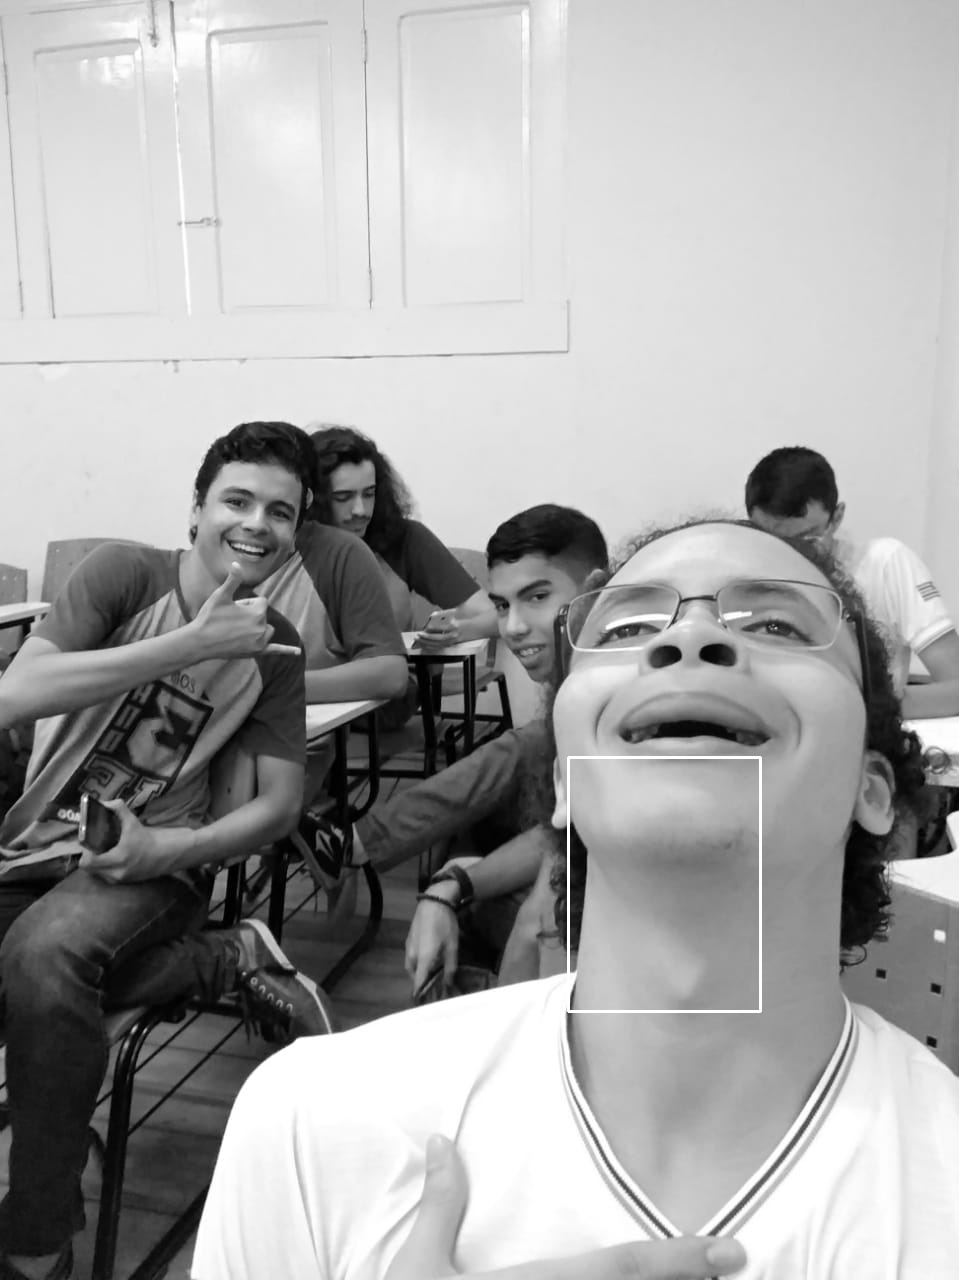
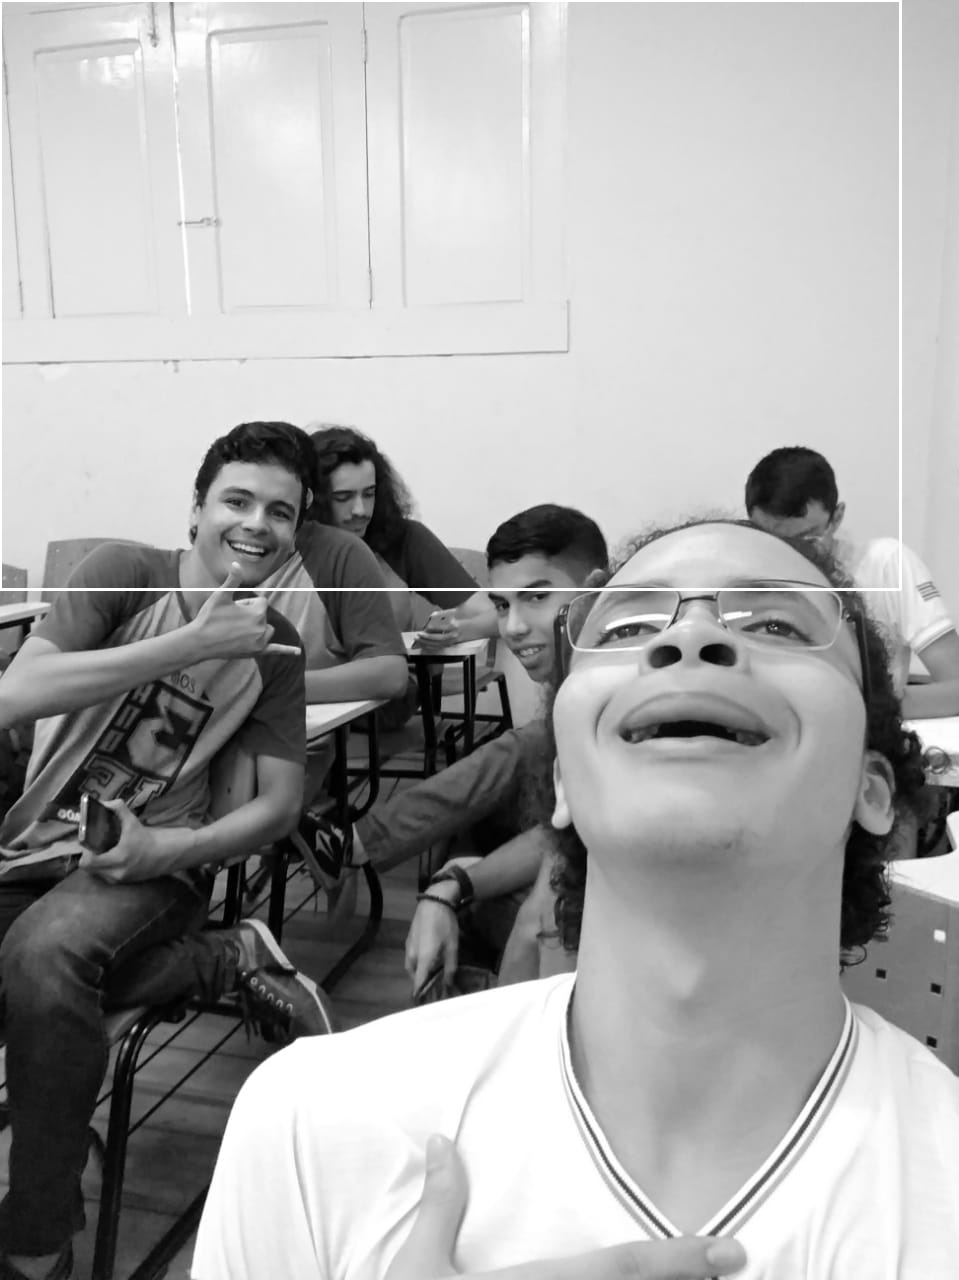
Template Matching + Cascade integrade

diff --git a/template_matching.py b/template_matching.py
@@ -1,30 +1,123 @@
 import cv2
 import numpy as np
+import requests
+import imutils
+import cascade_boosting
+
+url = "http://10.0.50.5:8080/shot.jpg"
 
 
-def face_detection_with_Cam():
-    cap = cv2.VideoCapture(0)
-    template = cv2.imread("template3.png", cv2.IMREAD_GRAYSCALE)
-    w, h = template.shape[::-1]
-    threshold = 0.8  
 
-    while True:
-        ret, frame = cap.read()
-        gray_frame = cv2.cvtColor(frame, cv2.COLOR_BGR2GRAY)
-
-        result = cv2.matchTemplate(gray_frame, template, cv2.TM_CCOEFF_NORMED)
-        loc = np.where(result >= threshold) 
-        for pt in zip(*loc[::-1]):   
-            cv2.rectangle(frame, pt, (pt[0] + w, pt[1] + h), (0,255,255), 2)  
+def template_matching_with_cascade(flag_cam, cascade_classifier):
+    template_faces = []
+    if (flag_cam == 'webcam'):
+        cap = cv2.VideoCapture(0)
+        while True:
+            ret, frame = cap.read()
+            if not template_faces:  #sem templates
+                template_faces = cascade_boosting.get_template_Cascade(frame, cascade_classifier)
             
-        cv2.imshow("Template Matching", frame)
+            for face in template_faces:
+                gray_frame = cv2.cvtColor(frame, cv2.COLOR_BGR2GRAY)
+                result = cv2.matchTemplate(gray_frame, face, cv2.TM_CCOEFF_NORMED)
+                threshold = 0.8  
+                loc = np.where(result > threshold)
+                loc = list(zip(*loc[::-1]))
 
-        k = cv2.waitKey(30) & 0xff
-        if k == 27: # press 'ESC' to quit
-            break
+                (h, w) = face.shape
+                print(len(loc))
+                for point in loc:
+                    cv2.rectangle(frame, point, (point[0] + w, point[1] + h), (255, 0, 0))
 
-    cap.release()
-    cv2.destroyAllWindows()
+                cv2.imshow("Template Matching", frame)
+
+                k = cv2.waitKey(30) & 0xff
+                if k == 27: # press 'ESC' to quit
+                    break
+
+                cap.release()
+                cv2.destroyAllWindows()
+    else: #android
+        while True:
+            img_resp = requests.get(url)
+            img_arr = np.array(bytearray(img_resp.content), dtype=np.uint8)
+            img = cv2.imdecode(img_arr, -1)
+            img = imutils.resize(img, width=1000, height=1800)
+
+            if not template_faces:  #sem templates
+                template_faces = cascade_boosting.get_template_Cascade(img, cascade_classifier)
+
+            for face in template_faces:
+                gray_frame = cv2.cvtColor(img, cv2.COLOR_BGR2GRAY)
+                result = cv2.matchTemplate(gray_frame, face, cv2.TM_CCOEFF_NORMED)
+                threshold = 0.8  
+                loc = np.where(result > threshold)
+                loc = list(zip(*loc[::-1]))
+
+                (h, w) = face.shape
+                print(len(loc))
+                for point in loc:
+                    cv2.rectangle(img, point, (point[0] + w, point[1] + h), (255, 0, 0))
+                
+            cv2.imshow("Template Matching", img)
+
+            # Press Esc key to exit
+            if cv2.waitKey(1) == 27:
+                break
+    
+        cv2.destroyAllWindows()
+
+
+
+def face_detection_with_Cam(flag_cam, path_template):
+    if (flag_cam == 'webcam'):    
+        cap = cv2.VideoCapture(0)
+        template = cv2.imread(path_template, cv2.IMREAD_GRAYSCALE)
+        w, h = template.shape[::-1]
+        threshold = 0.8  
+
+        while True:
+            ret, frame = cap.read()
+            gray_frame = cv2.cvtColor(frame, cv2.COLOR_BGR2GRAY)
+
+            result = cv2.matchTemplate(gray_frame, template, cv2.TM_CCOEFF_NORMED)
+            loc = np.where(result >= threshold) 
+            for pt in zip(*loc[::-1]):   
+                cv2.rectangle(frame, pt, (pt[0] + w, pt[1] + h), (0,255,255), 2)  
+                
+            cv2.imshow("Template Matching", frame)
+
+            k = cv2.waitKey(30) & 0xff
+            if k == 27: # press 'ESC' to quit
+                break
+
+        cap.release()
+        cv2.destroyAllWindows()
+    else:
+        template = cv2.imread(path_template, cv2.IMREAD_GRAYSCALE)
+        w, h = template.shape[::-1]
+        template = cv2.resize(template, (500,500))
+        threshold = 0.8  
+        while True:
+            img_resp = requests.get(url)
+            img_arr = np.array(bytearray(img_resp.content), dtype=np.uint8)
+            img = cv2.imdecode(img_arr, -1)
+            img = imutils.resize(img, width=1000, height=1800)
+            gray_frame = cv2.cvtColor(img, cv2.COLOR_BGR2GRAY)
+
+            result = cv2.matchTemplate(gray_frame, template, cv2.TM_CCOEFF_NORMED)
+            loc = np.where(result >= threshold) 
+            for pt in zip(*loc[::-1]):   
+                cv2.rectangle(frame, pt, (pt[0] + w, pt[1] + h), (0,255,255), 2)  
+                
+            cv2.imshow("Template Matching", img)
+
+            # Press Esc key to exit
+            if cv2.waitKey(1) == 27:
+                break
+    
+        cv2.destroyAllWindows()
+    
 
 
 def face_detection_with_image(path_template, path_imagem):

diff --git a/cascade_boosting.py b/cascade_boosting.py
@@ -1,3 +1,4 @@
+from tkinter import Scale
 import cv2
 import requests
 import imutils
@@ -6,7 +7,32 @@ import numpy as np
 #Flag cam vai dizer se vai usar web cam tradicional ou do android 
  # {'webcam' ou 'android'}
 
+
+
+
 url = "http://10.0.50.5:8080/shot.jpg"
+
+
+
+def get_template_Cascade(current_frame, classifier):
+    gray_frame = cv2.cvtColor(current_frame, cv2.COLOR_BGR2GRAY)
+    gray_frame = cv2.equalizeHist(gray_frame)
+    faces = classifier.detectMultiScale(
+                    gray_frame,     
+                    scaleFactor=1.2,
+                    minNeighbors=5,     
+                    minSize=(20, 20)
+                )
+    templates = []
+
+    for face in faces:
+        (x,y,w,h) = face
+        face = gray_frame[y:y+h, x: x+h]
+        templates.append(face)
+    
+    return templates
+
+
 def face_detection_with_cam(classifier, flag, flag_cam):
     
     if (flag_cam == 'webcam'):

diff --git a/main.py b/main.py
@@ -9,14 +9,16 @@ import andoid_cam
 
 haar_Classifier = cv2.CascadeClassifier('haarcascade_frontalface_default.xml')
 
-#template_matching.face_detection_with_image('img/template_jao.png', 'img/teste_img.jpg')
+#template_matching.face_detection_with_Cam('android', 'img/template.jpg')
+
+template_matching.template_matching_with_cascade('android', haar_Classifier)
 
 #andoid_cam.start()
 #hogFaceDetector = dlib.get_frontal_face_detector()
 
 #Caso teste HAAR
 #cascade_boosting.face_detection_image(haar_Classifier, 'img/teste_img.jpg', 'haar')
-cascade_boosting.face_detection_with_cam(haar_Classifier, 'haar', 'android')
+#cascade_boosting.face_detection_with_cam(haar_Classifier, 'haar', 'android')
 
 #Caso teste HOG
 #cascade_boosting.face_detection_image(hogFaceDetector, 'img/teste_img.jpg', 'hog')
